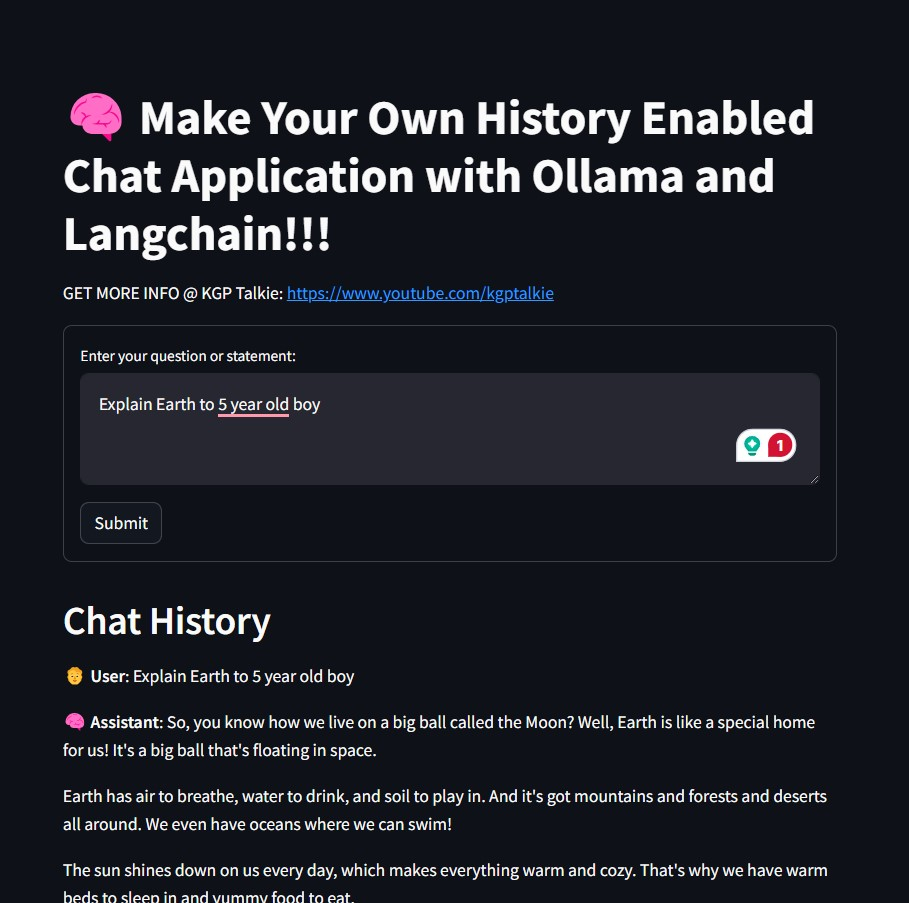
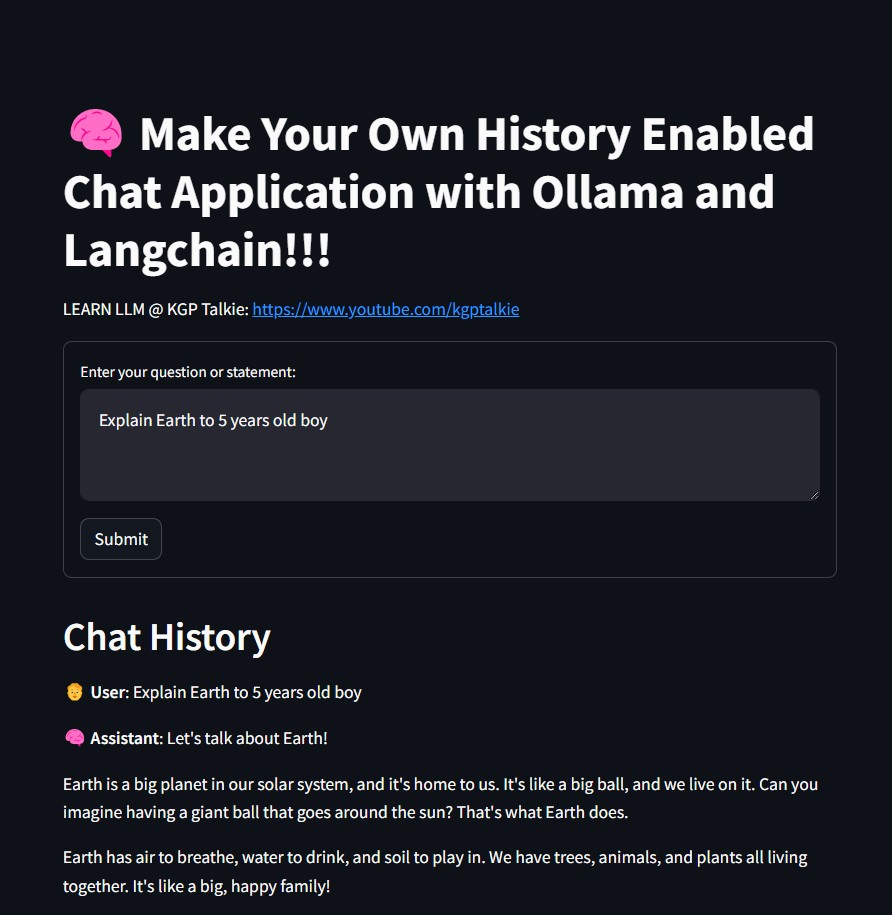
chat bot with history

Changed region(s): [[0.0605, 0.093, 0.9383, 0.6202], [0.0605, 0.7442, 0.9081, 1.0], [0.0605, 0.6512, 0.3027, 0.7132]]

diff --git a/2.chatbot_with_history/2.chatbot_with_history.py b/2.chatbot_with_history/2.chatbot_with_history.py
@@ -1,35 +1,39 @@
+# pip install -qU langchain-ollama
+# pip install langchain
+# pip install streamlit
+
 import streamlit as st
+
 from langchain_ollama import ChatOllama
 from langchain_core.output_parsers import StrOutputParser
 from langchain_core.prompts import SystemMessagePromptTemplate, HumanMessagePromptTemplate, AIMessagePromptTemplate
 from langchain_core.prompts import ChatPromptTemplate
-
-# pip install -qU langchain-ollama
-# pip install langchain
 
 st.title(":brain: Make Your Own History Enabled Chat Application with Ollama and Langchain!!!")
 st.write("LEARN LLM @ KGP Talkie: https://www.youtube.com/kgptalkie")
 
 model = ChatOllama(model="llama3.2:1b", base_url="http://localhost:11434/")
 
-system_message = SystemMessagePromptTemplate.from_template("You are helpful AI Assistant.")
+system_message = SystemMessagePromptTemplate.from_template("You are a helpful AI Assistant. You work as teacher for 5th grade students. You explain things in short and brief.")
 
 if "chat_history" not in st.session_state:
     st.session_state['chat_history'] = []
 
 with st.form("llm-form"):
-    text = st.text_area("Enter your question or statement:")
+    text = st.text_area("Enter your question here.")
     submit = st.form_submit_button("Submit")
 
-def generate_response(chat_history):
-    chat_template = ChatPromptTemplate.from_messages(chat_history)
-    
+def generate_response(chat_histroy):
+    chat_template = ChatPromptTemplate.from_messages(chat_histroy)
+
     chain = chat_template|model|StrOutputParser()
 
     response = chain.invoke({})
 
     return response
 
+# user message in 'user' key
+# ai message in 'assistant' key
 def get_history():
     chat_history = [system_message]
     for chat in st.session_state['chat_history']:
@@ -38,25 +42,36 @@ def get_history():
 
         ai_message = AIMessagePromptTemplate.from_template(chat['assistant'])
         chat_history.append(ai_message)
+
     return chat_history
-        
+
 
 if submit and text:
     with st.spinner("Generating response..."):
         prompt = HumanMessagePromptTemplate.from_template(text)
 
         chat_history = get_history()
+
         chat_history.append(prompt)
-        # print(chat_history)
+
+        # st.write(chat_history)
 
         response = generate_response(chat_history)
-        
-        st.session_state['chat_history'].append({"user": text, "assistant": response})
 
-st.write("## Chat History")
+        st.session_state['chat_history'].append({'user': text, 'assistant': response})
+
+        # st.write("response: ", response)
+
+        # st.write(st.session_state['chat_history'])
+
+
+st.write('## Chat History')
 for chat in reversed(st.session_state['chat_history']):
-    st.write(f"**:adult: User**: {chat['user']}")
-    st.write(f"**:brain: Assistant**: {chat['assistant']}")
-    st.write("---")
+       st.write(f"**:adult: User**: {chat['user']}")
+       st.write(f"**:brain: Assistant**: {chat['assistant']}")
+       st.write("---")
+
+
+
 
 
